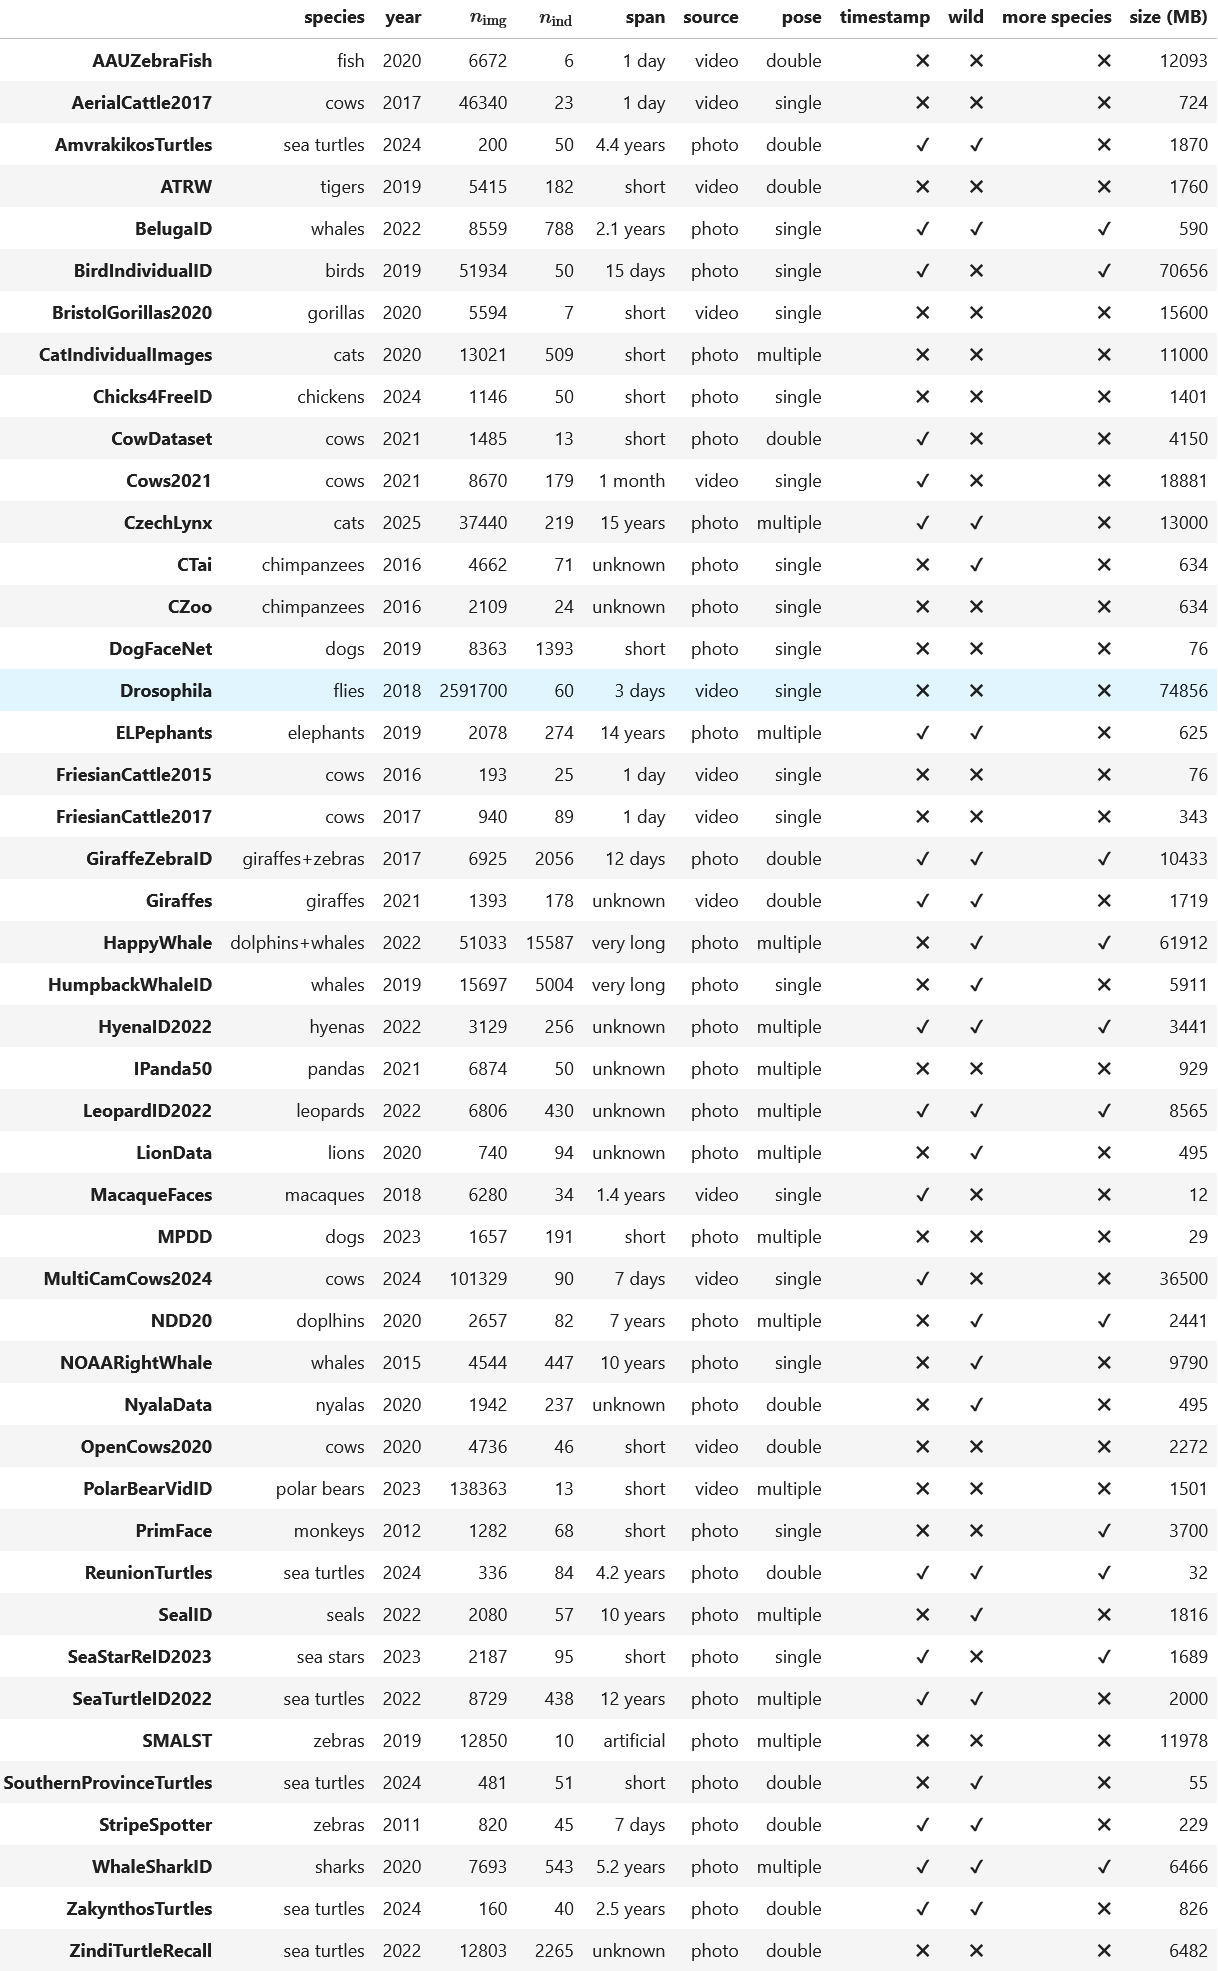
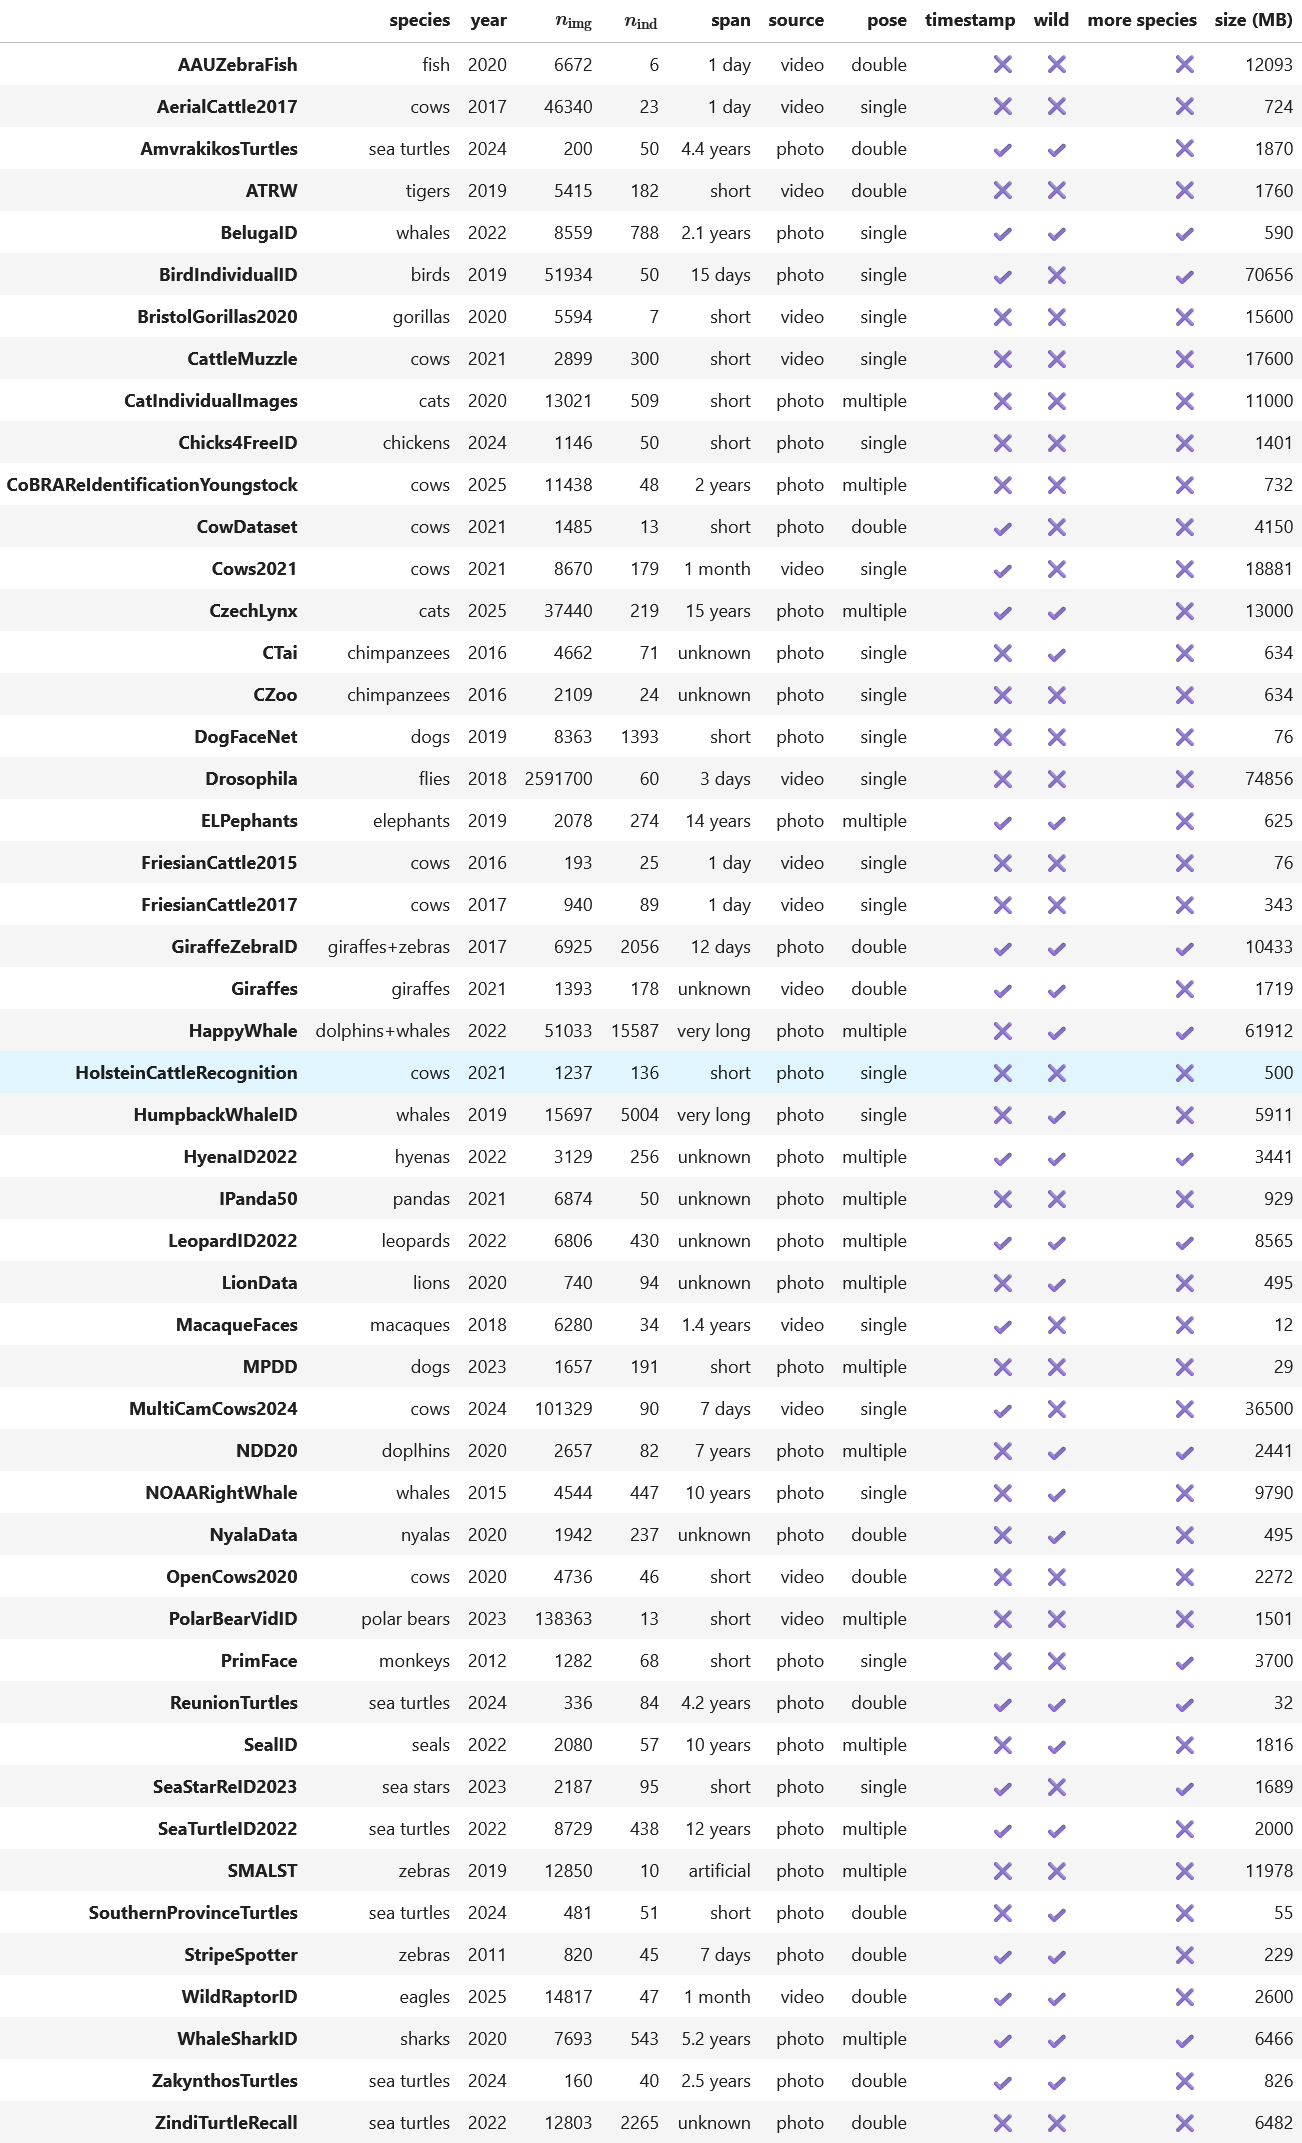
Readme updated

diff --git a/README.md b/README.md
@@ -56,6 +56,15 @@ Do you know about any animal re-identification dataset which is not included? Po
 
 An overview of the provided datasets is available in the [documentation](https://wildlifedatasets.github.io/wildlife-datasets/datasets/). We include basic characteristics such as publication years, number of images, number of individuals, dataset time span (difference between the last and first image taken) and additional information such as source, number of poses, inclusion of timestamps, whether the animals were captured in the wild and whether the dataset contain multiple species.
 
+### MetaDatasets
+
+<picture>
+  <source media="(prefers-color-scheme: dark)" srcset="https://github.com/WildlifeDatasets/wildlife-datasets/raw/main/docs/resources/MetaDatasets_Summary_inverted.png">
+  <source media="(prefers-color-scheme: light)" srcset="https://github.com/WildlifeDatasets/wildlife-datasets/raw/main/docs/resources/MetaDatasets_Summary.png">
+  <img alt="Dataset summary" src="https://github.com/WildlifeDatasets/wildlife-datasets/raw/main/docs/resources/MetaDatasets_Summary.png">
+</picture>
+
+### Datasets
 
 <picture>
   <source media="(prefers-color-scheme: dark)" srcset="https://github.com/WildlifeDatasets/wildlife-datasets/raw/main/docs/resources/Datasets_Summary_inverted.png">
